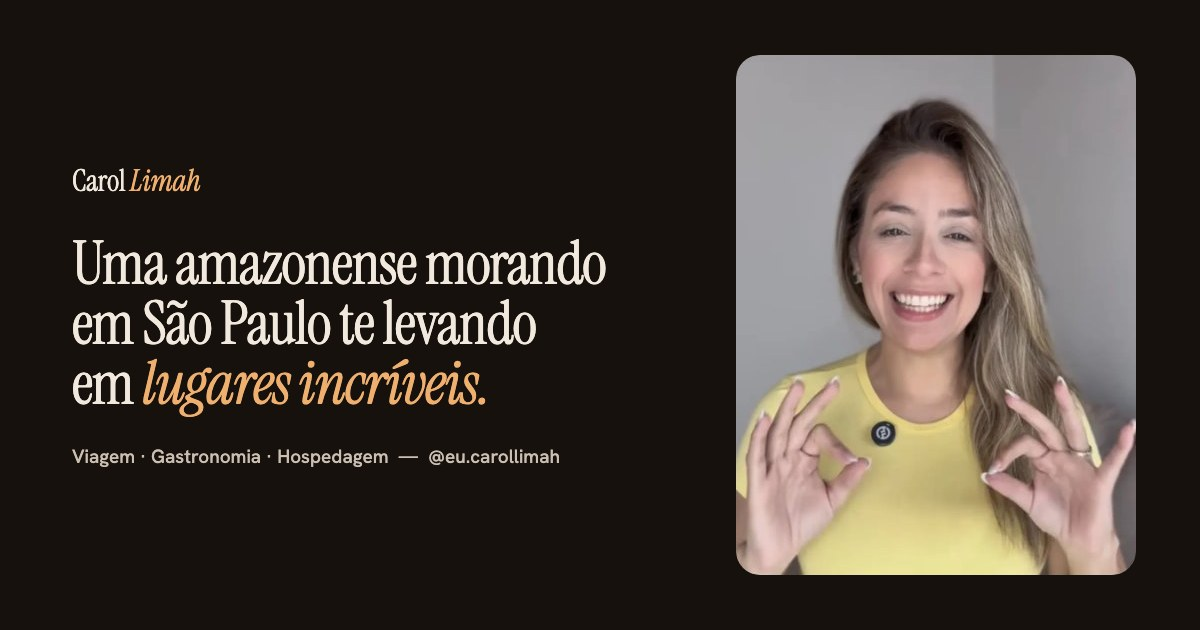
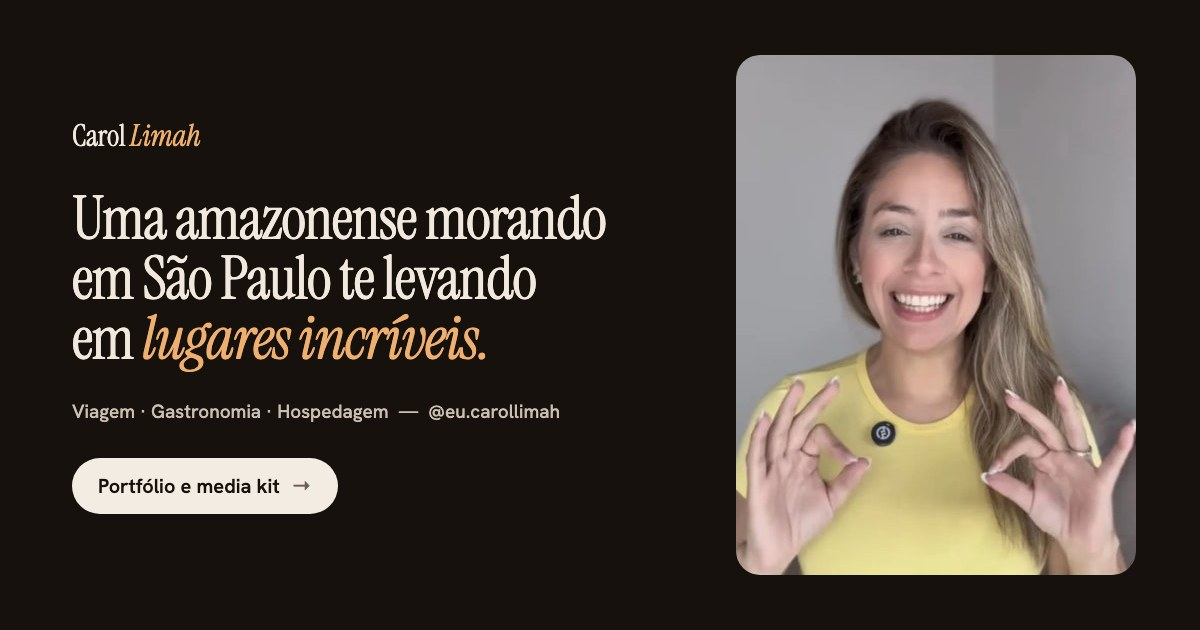
Prévia de link no idioma da página e descrições mais curtas
- og.jpg, og-en.jpg e og-es.jpg com o título do hero em cada idioma; o SeoHead aponta para a do idioma
- Botão "Portfólio e media kit →" na imagem, no creme do CTA da nav
- npm run og gera as três imagens
- Descrições com até 125 caracteres, para a prévia não cortar no celular

Changed region(s): [[0.0617, 0.2714, 0.5242, 0.6635], [0.0617, 0.6937, 0.4625, 0.8143], [0.0617, 0.181, 0.185, 0.2413]]

diff --git a/site/src/i18n/ui.ts b/site/src/i18n/ui.ts
@@ -1,4 +1,5 @@
 // Textos fixos das páginas e componentes nos três idiomas. Trechos com <em>/<strong> vão com set:html.
+// Descrições (homeDescription e as de data/niches.ts) com até ~125 caracteres: a prévia de link corta o resto.
 // Os números chegam já escritos no idioma (i18n/index.ts: num, numLong, pct).
 import type { L } from '.';
 
@@ -28,7 +29,7 @@ const pt = {
   photo: (t: string) => `Foto: ${t}, Carol Limah`,
   // home
   homeTitle: 'Carol Limah · Influenciadora de viagem e gastronomia em SP',
-  homeDescription: 'Carol Limah (@eu.carollimah), influenciadora de viagens e gastronomia em SP: restaurantes, hotéis e pousadas. Portfólio e media kit.',
+  homeDescription: 'Carol Limah (@eu.carollimah), influenciadora de viagem e gastronomia em SP: restaurantes e hotéis. Portfólio e media kit.',
   jobTitle: 'Criadora de conteúdo',
   personDescription: 'Amazonense morando em São Paulo, cria conteúdo sobre restaurantes, hotéis, pousadas e viagens.',
   knowsAbout: ['Viagem', 'Gastronomia', 'Hospedagem', 'Restaurantes em São Paulo', 'Lifestyle', 'Moda', 'UGC'],
@@ -139,7 +140,7 @@ const en: UI = {
   videoCover: (t) => `Cover of the video ${t}, Carol Limah`,
   photo: (t) => `Photo: ${t}, Carol Limah`,
   homeTitle: 'Carol Limah · Travel and food influencer in São Paulo',
-  homeDescription: 'Carol Limah (@eu.carollimah), travel and food influencer in São Paulo, Brazil: restaurants, hotels and inns. Portfolio and media kit.',
+  homeDescription: 'Carol Limah (@eu.carollimah), travel & food influencer in São Paulo, Brazil: restaurants and hotels. Portfolio and media kit.',
   jobTitle: 'Content creator',
   personDescription: 'Creator from the Amazon living in São Paulo, making content about restaurants, hotels, inns and travel.',
   knowsAbout: ['Travel', 'Food', 'Hospitality', 'Restaurants in São Paulo', 'Lifestyle', 'Fashion', 'UGC'],
@@ -241,7 +242,7 @@ const es: UI = {
   videoCover: (t) => `Portada del video ${t}, Carol Limah`,
   photo: (t) => `Foto: ${t}, Carol Limah`,
   homeTitle: 'Carol Limah · Influencer de viajes y gastronomía en São Paulo',
-  homeDescription: 'Carol Limah (@eu.carollimah), influencer de viajes y gastronomía en São Paulo, Brasil: restaurantes, hoteles y posadas. Portafolio y media kit.',
+  homeDescription: 'Carol Limah (@eu.carollimah), influencer de viajes y gastronomía en São Paulo, Brasil: restaurantes y hoteles. Media kit.',
   jobTitle: 'Creadora de contenido',
   personDescription: 'Amazonense que vive en São Paulo y crea contenido sobre restaurantes, hoteles, posadas y viajes.',
   knowsAbout: ['Viajes', 'Gastronomía', 'Hospedaje', 'Restaurantes en São Paulo', 'Lifestyle', 'Moda', 'UGC'],

diff --git a/site/src/data/niches.ts b/site/src/data/niches.ts
@@ -53,7 +53,7 @@ const SRC: NicheSrc[] = [
     description: {
       pt: 'Restaurantes de SP nos reels da Carol Limah (@eu.carollimah): tacacá perto da Paulista, Kome, Gusto Cucina e On Fire.',
       en: 'São Paulo restaurants in Carol Limah’s reels (@eu.carollimah): tacacá near Avenida Paulista, Kome, Gusto Cucina and On Fire.',
-      es: 'Restaurantes de São Paulo en los reels de Carol Limah (@eu.carollimah): tacacá cerca de la Paulista, Kome, Gusto Cucina y On Fire.',
+      es: 'Restaurantes de São Paulo en los reels de Carol Limah (@eu.carollimah): tacacá en la Paulista, Kome, Gusto Cucina y On Fire.',
     },
     h1: {
       pt: 'Restaurantes em São Paulo, <em>prato a prato.</em>',
@@ -193,9 +193,9 @@ const SRC: NicheSrc[] = [
       es: 'Colaboraciones y videos UGC · Carol Limah, creadora de contenido en São Paulo',
     },
     description: {
-      pt: `Publis e UGC da Carol Limah (@eu.carollimah) para Mercado Livre, Shein e Kome. Média de ${mlAverage('pt')} views nos reels do Mercado Livre.`,
-      en: `Carol Limah’s brand deals and UGC (@eu.carollimah) for Mercado Livre, Shein and Kome. The Mercado Livre reels average ${mlAverage('en')} views.`,
-      es: `Colaboraciones y UGC de Carol Limah (@eu.carollimah) para Mercado Livre, Shein y Kome. Promedio de ${mlAverage('es')} vistas en los reels de Mercado Livre.`,
+      pt: `Publis e UGC da Carol Limah (@eu.carollimah): Mercado Livre, Shein e Kome. Média de ${mlAverage('pt')} views nos reels do Mercado Livre.`,
+      en: `Carol Limah’s brand deals and UGC (@eu.carollimah) for Mercado Livre, Shein and Kome. Mercado Livre reels average ${mlAverage('en')} views.`,
+      es: `Colaboraciones y UGC de Carol Limah (@eu.carollimah): Mercado Livre, Shein y Kome. Media de ${mlAverage('es')} vistas en Mercado Livre.`,
     },
     h1: {
       pt: 'Publis que <em>entregam alcance.</em>',
